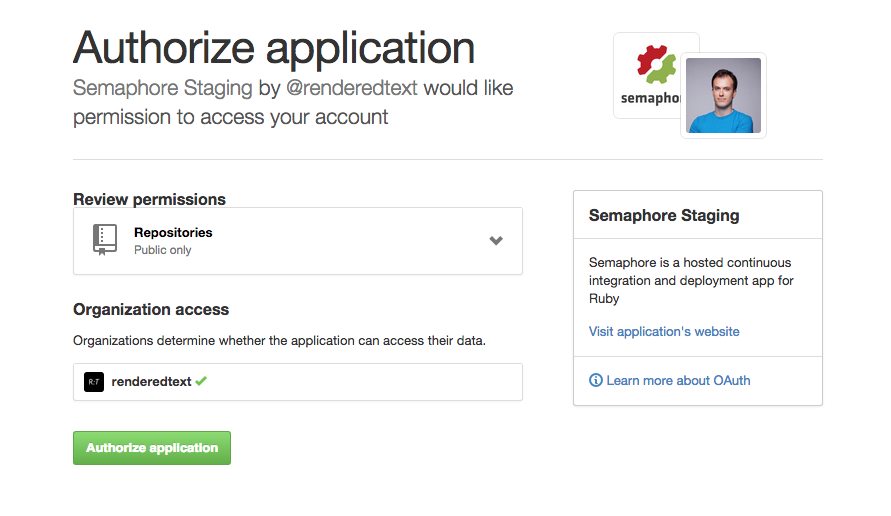
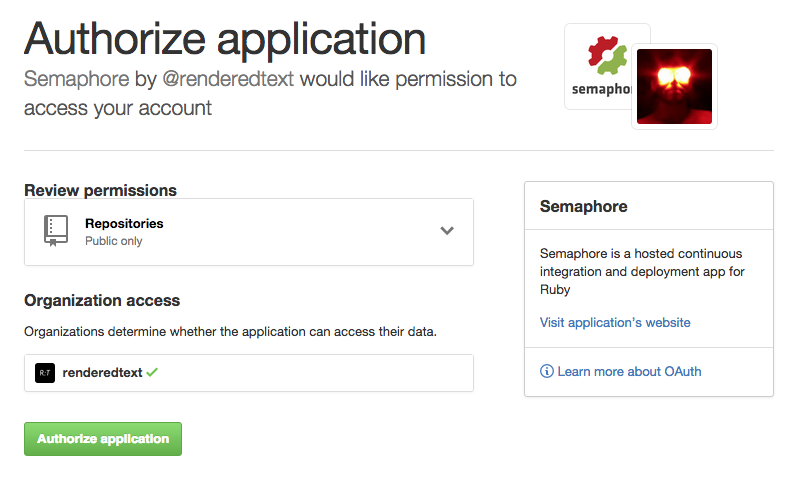
Replace screenshots on the adding a new project docs

diff --git a/source/docs/adding-github-bitbucket-project-to-semaphore.md b/source/docs/adding-github-bitbucket-project-to-semaphore.md
@@ -28,7 +28,7 @@ pull request status. Select your preferred Git host.
 
 We will now assume that you chose GitHub. On the next screen, select whether you
 would like to give Semaphore access to your public (open-source) or
-private projects. Access to private projects also includes access to public 
+private projects. Access to private projects also includes access to public
 projects.
 
 If you are using Bitbucket, this step does not exist because Bitbucket only supports
@@ -76,14 +76,14 @@ language.
 <img src="/docs/assets/img/adding-new-project/analysis-results.png" class="img-responsive img-bordered">
 
 In this case, we have a Ruby on Rails application for which we would like to run
-`bundle exec rake cucumber` in a second, parallel thread, so we'll select
-"Thread #2" from the associated select box.
+`bundle exec rake cucumber` in a second, parallel thread. That's why  we'll add
+a new parallel thread and drag and drop `bundle exec rake cucumber` command to
+the new thread.
 
 <img src="/docs/assets/img/adding-new-project/thread2.png" class="img-responsive img-bordered">
 
 If your project needs to run commands that are different from what Semaphore has
-suggested, just click on the "Customize build" link at the bottom of the
-commands list to customize them to your needs.
+suggested, just use the commands editor to customize them to your needs.
 
 At this point, you'll be ready to launch your first build. Click on "Build With
 These Settings" to do so. If all goes well, you should see your first successful
